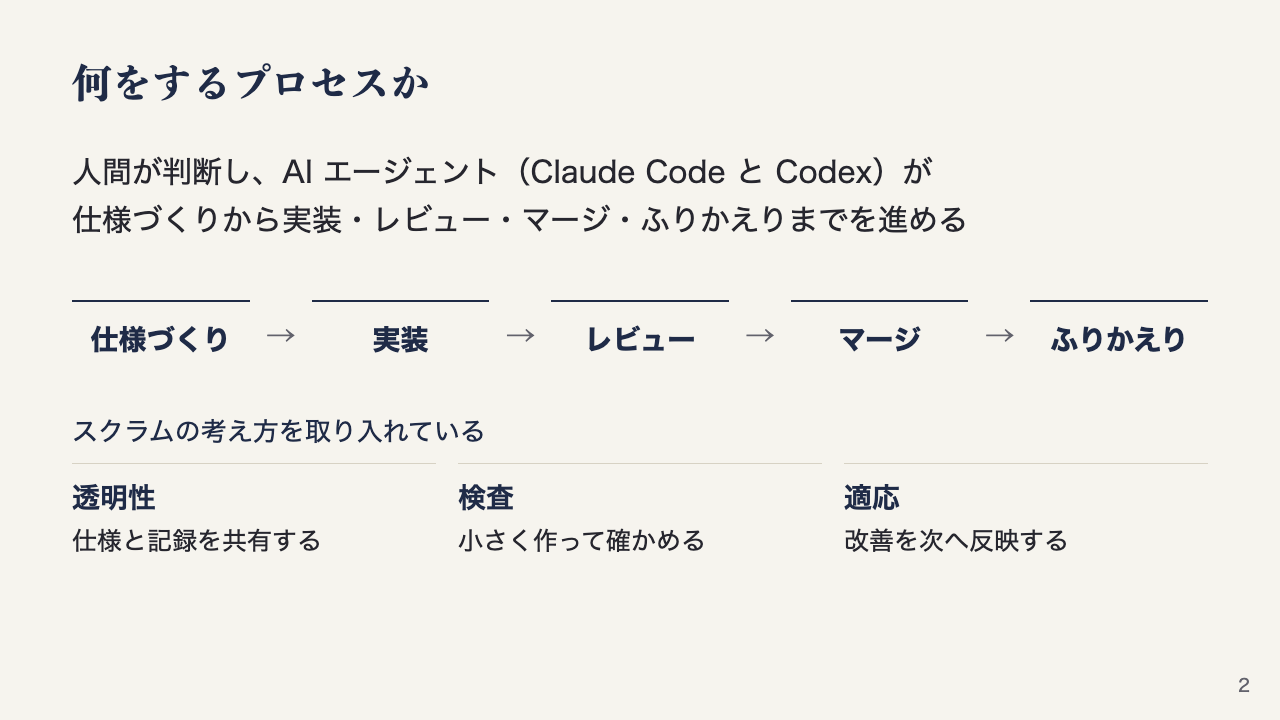
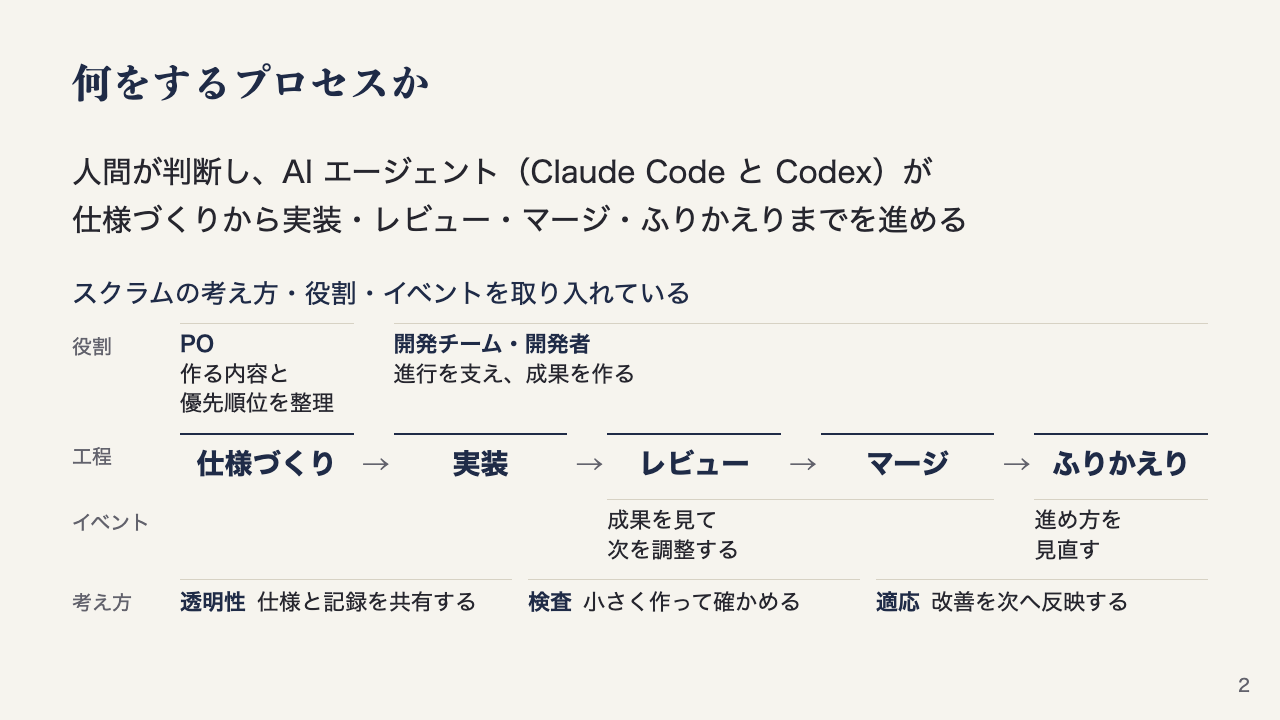
2枚目を工程・役割・イベントの図にし、スクラムの役割とイベントの取り入れも示す
更新後の Issue #4 の条件（main cd49545）に合わせ、2枚目の工程の行の上に役割、
下にイベントと考え方を重ねた図にした。6枚目のまとめと2・6枚目のノート、
テーマ・design.md・プレビューを合わせて直した。

diff --git a/themes/paper.css b/themes/paper.css
@@ -92,48 +92,67 @@ section.cover .subtitle { font-size: 28px; margin-top: 16px; }
   margin-bottom: 56px;
 }
 
-/* 工程: 左から右へ。各工程は文字と上端の罫線で示し、塗りで囲わない */
-.flow {
-  display: flex;
-  gap: 16px;
+/* 工程・役割・イベントの図: 中央の行に工程、上に役割、下にイベントと考え方。左端に行の名前を置き、
+   各項目の横の位置でどの工程に関わるかを示す。罫線で区切り、塗りで囲わない。
+   列は「行の名前・工程・矢印・工程…」の順（2・4・6・8・10列目が工程、3・5・7・9列目が矢印） */
+.statement.compact { margin-bottom: 30px; }
+.lanes-label {
+  font-size: 26px;
+  color: var(--indigo);
+  margin-bottom: 10px;
 }
-.flow .step {
-  flex: 1;
+.lanes {
+  display: grid;
+  grid-template-columns: 100px repeat(4, minmax(0, 1fr) 24px) minmax(0, 1fr);
+  gap: 14px 8px;
+  align-items: start;
+}
+.lane-name {
+  grid-column: 1;
+  font-size: 20px;
+  color: var(--muted);
+  padding-top: 8px;
+}
+.lane-item {
+  border-top: 1px solid var(--rule);
+  padding-top: 6px;
+  font-size: 22px;
+  line-height: 1.35;
+}
+.lane-item b { display: block; color: var(--indigo); }
+.lane-item.po { grid-column: 2 / 3; }      /* 仕様づくり */
+.lane-item.team { grid-column: 4 / 11; }   /* 実装〜ふりかえり */
+.lane-item.check { grid-column: 6 / 9; }   /* レビュー〜マージ */
+.lane-item.retro { grid-column: 10 / 11; } /* ふりかえり */
+.lane-step {
   min-width: 0;
   border-top: 2px solid var(--indigo);
-  padding-top: 16px;
+  padding-top: 10px;
   color: var(--indigo);
   font-size: 28px;
   font-weight: 700;
+  line-height: 1.3;
   text-align: center;
 }
-.flow .arrow { padding-top: 14px; }
-
-/* 取り入れた考え方: 工程の下に、見出しの1行と横並びの3項目（語と短い説明）。罫線で区切り、塗りで囲わない */
-.principles {
+.lane-arrow {
+  color: var(--muted);
+  font-size: 28px;
+  padding-top: 10px;
+  text-align: center;
+}
+.lane-pillars {
+  grid-column: 2 / 11;
   display: flex;
-  flex-wrap: wrap;
-  gap: 0 22px;
-  margin-top: 52px;
+  gap: 16px;
 }
-.principles-label {
-  flex-basis: 100%;
-  font-size: 26px;
-  color: var(--indigo);
-  margin-bottom: 12px;
-}
-.principle {
+.lane-pillars span {
   flex: 1;
   min-width: 0;
   border-top: 1px solid var(--rule);
-  padding-top: 12px;
+  padding-top: 6px;
+  font-size: 22px;
 }
-.principle b {
-  display: block;
-  color: var(--indigo);
-  font-size: 28px;
-  margin-bottom: 4px;
-}
+.lane-pillars b { color: var(--indigo); margin-right: .5em; }
 
 /* 初出の語の意味の補足: 項目名の直下に小さく置く。正式な役割との同一性は表さない。
    役割の人物つき3列では、項目名と補足を .role-name で包み、人物の右に置く（人物の高さ 120px の中に収める） */

diff --git a/docs/design.md b/docs/design.md
@@ -30,6 +30,8 @@ Issue #5 で採用した見本（`e0d645a` の [見本原稿](../slides/design-c
 | 要旨の一文 | 30px、行間 1.6 |
 | 3つの判断 | 30px |
 | 工程 | 28px 太字 |
+| 図の項目（役割・イベント・考え方） | 22px、行間 1.35 |
+| 図の行の名前 | 20px・補足の色 |
 | まとめ表・次の案内 | 26px |
 | 本文 | 25px、行間 1.5 |
 | 参照先・補足 | 22px |
@@ -50,8 +52,7 @@ Issue #5 で採用した見本（`e0d645a` の [見本原稿](../slides/design-c
 | 表紙 | `<!-- _class: cover -->` と `# 題名`、`<p class="keywords">`・`<p class="subtitle">` | 1 |
 | 本文 | `## 見出し` に続けて本文。特別なクラスは不要 | 2〜14 |
 | 要旨の一文 | `<p class="statement">` | 2 |
-| 工程 | `<div class="flow">` の中に `<div class="step">` と `<div class="arrow">→</div>` を交互に置く | 2 |
-| 取り入れた考え方 | 工程の下に `<div class="principles">`。先頭に `<p class="principles-label">`（見出しの1行）、続けて `<div class="principle">` を3つ（`<b>` に語、続けて短い説明）。上端の細い罫線で区切り、塗りで囲わない。Issue #4 でスクラムの透明性・検査・適応と本プロセスの対応を示すために追加 | 2 |
+| 工程・役割・イベントの図 | 要旨の一文を `<p class="statement compact">`（下の余白 30px）にし、図の上に `<p class="lanes-label">`（1行）、続けて `<div class="lanes">`。各行は左端の `<div class="lane-name">`（役割・工程・イベント・考え方）から始める。工程の行は `<div class="lane-step">` と `<div class="lane-arrow">→</div>` を交互に5つ（2・4・6・8・10列目が工程）。役割・イベントの行は `<div class="lane-item">` に位置の修飾クラス（`po` 仕様づくり／`team` 実装〜ふりかえり／`check` レビュー〜マージ／`retro` ふりかえり）を付け、横の位置でどの工程に関わるかを示す（`<b>` に名前、続けて2行以内の短い説明）。考え方の行は `<div class="lane-pillars">` に `<span>`（`<b>` に語、続けて短い説明）を3つ。原稿にインラインの `style` は書かない。上端の罫線で区切り、塗りで囲わない。Issue #4 でスクラムの考え方・役割・イベントと工程の関係を示すために、工程の行（`.flow`）と取り入れた考え方の段（`.principles`）を置き換えた | 2 |
 | 3列 | `<div class="columns">` の中に `<div class="column">`（`<h3>`・`<ul>`・`<p class="meta">`）。順序を示すときだけ列の間に `<div class="arrow">→</div>` を置く。参照先 `.meta` は列の下端にそろう | 3（矢印あり） |
 | 3列（役割の人物つき） | `<div class="columns roles">` にし、各列の `<h3>` を `<div class="role-head">` で包んで、その前に `<img class="role-figure">` を置く（下の「役割の人物」） | 4 |
 | 初出の語の補足 | 項目名の直下に `<p class="gloss">（…）</p>`（20px・補足の色）。人物つき3列では `<h3>` と補足を `<div class="role-name">` で包み、人物の右に置く（人物の高さ 120px の中に収まり、列の高さ 500px を超えない）。括弧は初出の意味の補足だけに使い、別の用語の正式な役割と同じだと示すためには使わない。Issue #4 で PO に「（仕様・優先順位を整理する役割）」を付けた | 4 |
